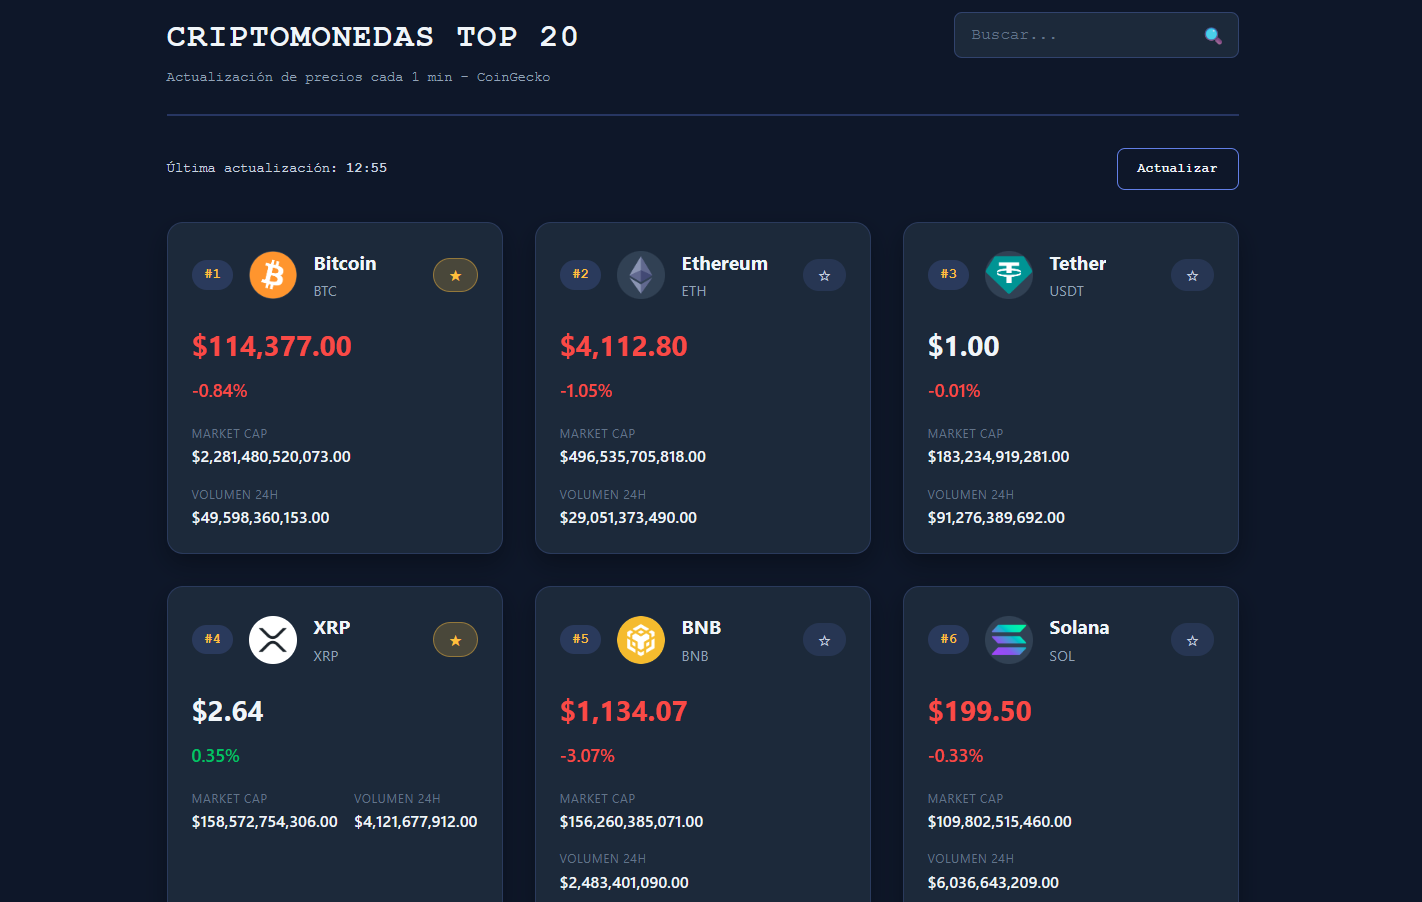
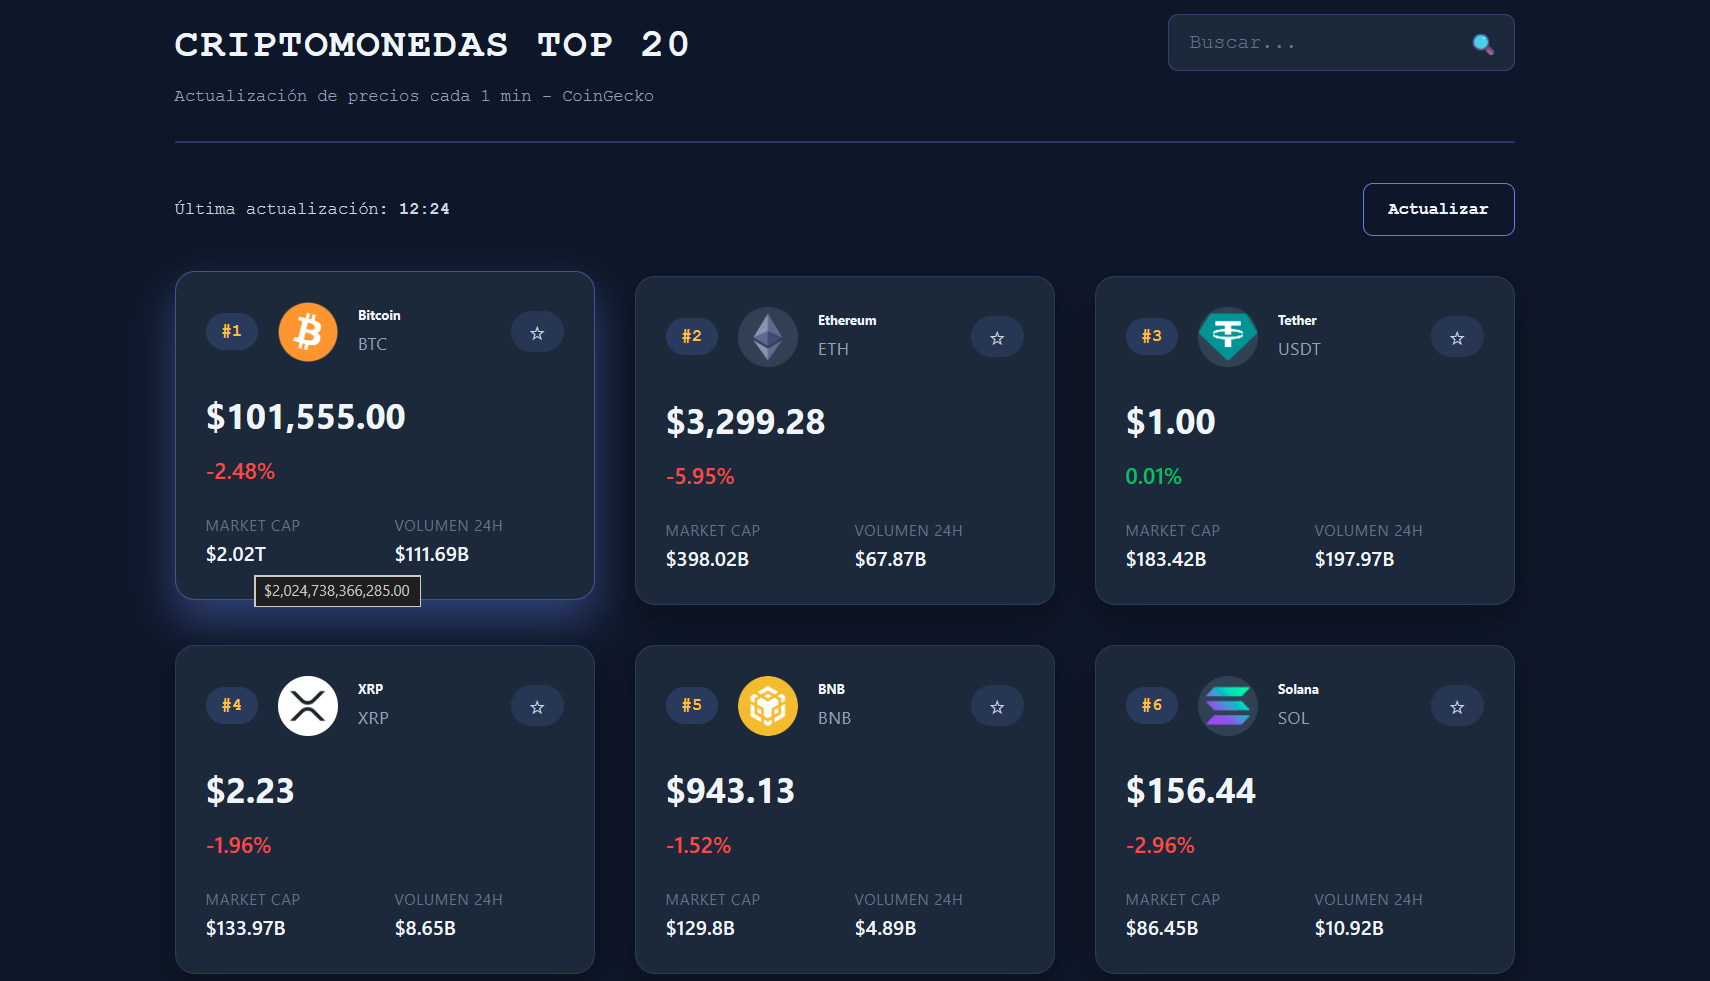
corrección

diff --git a/src/components/CoinCard/CoinCard.jsx b/src/components/CoinCard/CoinCard.jsx
@@ -9,6 +9,20 @@ function formatCurrency(value) {
   }).format(value)
 }
 
+function formatCompactCurrency(value) {
+  if (value == null) return 'N/A'
+  try {
+    return new Intl.NumberFormat('en-US', {
+      notation: 'compact',
+      maximumFractionDigits: 2,
+      style: 'currency',
+      currency: 'USD'
+    }).format(value)
+  } catch {
+    return formatCurrency(value)
+  }
+}
+
 function formatPercentage(value) {
   if (value == null) return 'N/A'
   const formatter = new Intl.NumberFormat('en-US', {
@@ -127,11 +141,23 @@ function CoinCard({ coin, isInPortfolio = false, onTogglePortfolio, onUpdateQuan
       <footer className={styles.footer}>
         <div>
           <span className={styles.label}>Market Cap</span>
-          <span className={styles.value}>{formatCurrency(coin.marketCap)}</span>
+          <span
+            className={styles.value}
+            title={formatCurrency(coin.marketCap)}
+            aria-label={formatCurrency(coin.marketCap)}
+          >
+            {formatCompactCurrency(coin.marketCap)}
+          </span>
         </div>
         <div>
           <span className={styles.label}>Volumen 24h</span>
-          <span className={styles.value}>{formatCurrency(coin.totalVolume)}</span>
+          <span
+            className={styles.value}
+            title={formatCurrency(coin.totalVolume)}
+            aria-label={formatCurrency(coin.totalVolume)}
+          >
+            {formatCompactCurrency(coin.totalVolume)}
+          </span>
         </div>
       </footer>
     </article>

diff --git a/src/components/CoinCard/CoinCard.module.css b/src/components/CoinCard/CoinCard.module.css
@@ -154,7 +154,8 @@
   font-weight: 700;
   color: var(--text-primary);
   transition: color 0.3s ease;
-  word-break: break-all;
+  word-break: normal;
+  overflow-wrap: normal;
 }
 
 .priceUp {
@@ -210,7 +211,9 @@
   font-weight: 700;
   color: var(--color-secondary);
   font-family: var(--font-family-mono);
-  word-break: break-all;
+  white-space: nowrap;
+  overflow: hidden;
+  text-overflow: ellipsis;
 }
 
 .footer {
@@ -218,6 +221,13 @@
   justify-content: space-between;
   flex-wrap: wrap;
   gap: var(--spacing-md);
+}
+
+.footer > div {
+  flex: 1 1 45%;
+  min-width: 0;
+  display: flex;
+  flex-direction: column;
 }
 
 .label {
@@ -232,7 +242,9 @@
 .value {
   font-weight: 600;
   color: var(--text-primary);
-  word-break: break-all;
+  white-space: nowrap;
+  overflow: hidden;
+  text-overflow: ellipsis;
 }
 
 @media (max-width: 480px) {
@@ -259,7 +271,7 @@
   }
 
   .name {
-    font-size: var(--font-size-lg);
+    font-size: 0.8rem;
   }
 
   .quantitySection {
